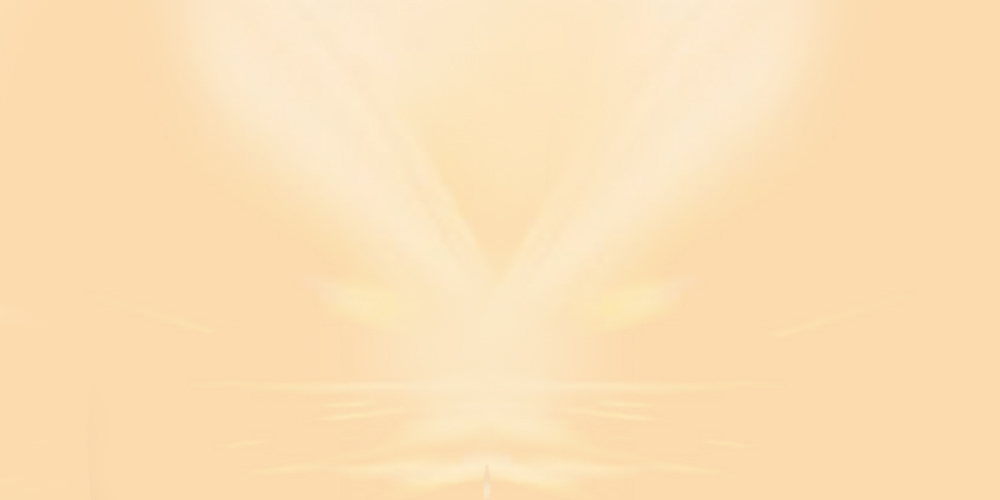
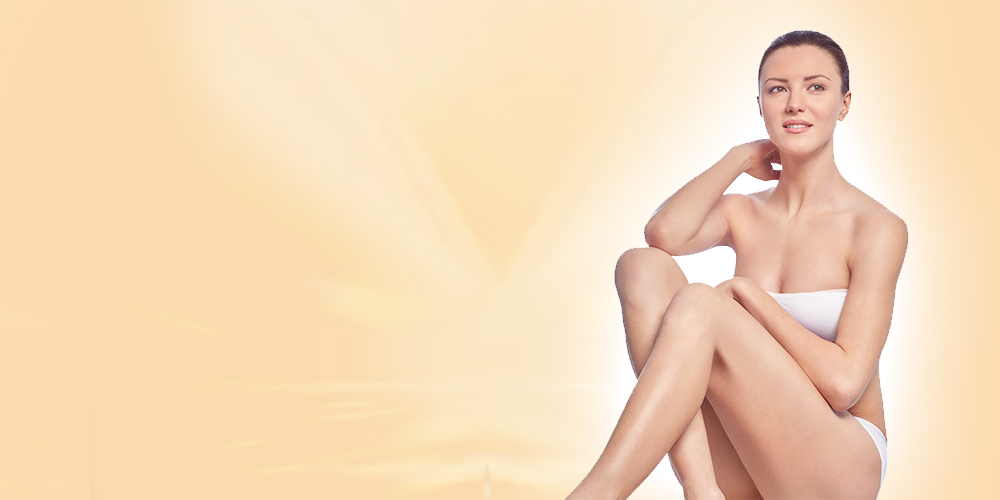
update all

Changed region(s): [[0.558, 0.03, 0.961, 1.0]]

diff --git a/product-1.html b/product-1.html
@@ -60,10 +60,9 @@
             <div class="carousel-item active">
                 <img alt="..." class="d-block w-100" src="assets/images/slider/banner.jpg">
                 <div class="carousel-caption d-md-block text-dark">
-                    <h1 class="regen-banner-title">天堡創建有限公司</h1>
+                    <h1 class="regen-banner-title">Toskani 品牌</h1>
                     <h5 class="regen-banner-caption">
-                        Castle Creation <br/>
-                        Limited
+                        Castle Creation Limited
                     </h5>
                 </div>
             </div>
@@ -75,10 +74,16 @@
 <!--Diamond Start-->
 <section class="regen-service">
     <div class="container mt-5 pb-3">
-        <p class="regen-content-paragraph text-center">
-            MEDILASE經過全方位臨床研究，以徹底解決肌膚問題，回復年輕原美肌為目標，<br/>
-            精心研發出AGE CORRECTOR逆齡精華，蘊含三大抗衰老功效，<br/>
-            承接美容療程，倍效逆齡再生。
+        <h1 class="regen-content-title">Toskani 品牌</h1>
+        <p class="regen-content-paragraph">
+            Toskani擁有超過30年歷史的西班牙美容品牌，曾榮獲歐洲醫學美容產品權威 Mediterraneo Excelente Award- Best Medicial Cosmetics 大獎，致力於研發高品質的醫學美容產品，讓您的肌膚煥然一新！產品線包括各種皮膚護理產品、注射劑、營養補充劑和美容設備，其中最受歡迎的皮膚護理產品。
+            <br/><br/>
+            皇牌產品例如:全新DUOSOMAL TECH®爆珠煥膚無創療程，,MesojectGun 女神槍, Night Reverse 一夜逆齡活膚系列和水光肌必備的NCPR49+1全效嫩膚肌底精華<br/>
+            。這些產品經過嚴格的測試和認證，並採用最先進的技術和成分，以確保它們具有卓越的效果和高質量。產品在全球各地廣受歡迎，並獲得了許多美容專家和消費者的讚譽。非常自豪能夠為大小的美容院提供優質的產品和服務，讓您在美容護理方面得到最好的體驗。
+            <br/><br/>
+            研究團隊累積了超過30項研究成果，將細胞和MESOTHERAPY技術應用於我們的產品之上。這些技術可以幫助您減少皺紋、美白肌膚、去除痘痘，讓您的肌膚看起來更加年輕、健康、有光澤。
+            <br/><br/>
+            所以，如果您正在尋找高品質的美容產品，那麼Toskani就是您的不二之選！我們的產品將讓您的肌膚焕然一新，讓您在人群中脫穎而出。
         </p>
     </div>
     <div class="text-center">
@@ -87,22 +92,19 @@
     <div class="container">
         <div class="row mt-5">
             <div class="col-lg-4 mb-3">
-                <img alt="" class="img-fluid" src="assets/images/product/001.png"/>
+                <img alt="" class="img-fluid" src="assets/images/product/toskani/1.jpeg"/>
             </div>
             <div class="col-lg-4 mb-3">
-                <img alt="" class="img-fluid" src="assets/images/product/002.png"/>
+                <img alt="" class="img-fluid" src="assets/images/product/toskani/2.jpeg"/>
             </div>
             <div class="col-lg-4 mb-3">
-                <img alt="" class="img-fluid" src="assets/images/product/003.png"/>
+                <img alt="" class="img-fluid" src="assets/images/product/toskani/3.jpeg"/>
             </div>
-            <div class="col-lg-4 mb-3">
-                <img alt="" class="img-fluid" src="assets/images/product/004.png"/>
+            <div class="col-lg-6 mb-3">
+                <img alt="" class="img-fluid" src="assets/images/product/toskani/4.jpeg"/>
             </div>
-            <div class="col-lg-4 mb-3">
-                <img alt="" class="img-fluid" src="assets/images/product/005.png"/>
-            </div>
-            <div class="col-lg-4 mb-3">
-                <img alt="" class="img-fluid" src="assets/images/product/006.png"/>
+            <div class="col-lg-6 mb-3">
+                <img alt="" class="img-fluid" src="assets/images/product/toskani/5.jpeg"/>
             </div>
         </div>
     </div>
@@ -114,24 +116,52 @@
     <div class="container mt-5 pb-lg-5 pb-5 text-center">
         <hr/>
         <h1 class="regen-content-title mt-5" >
-            兩種濃縮透明質酸　雙重加強保濕支援
+            prx-t33 品牌
         </h1>
+        <p class="regen-content-paragraph text-start">
+            由 WIQO Med 創造的 PRX-T33 是最新的革命性手塑埋線療程。
+            PRX-T33療法已在意大利衛生部註冊為醫療器材用品第一級TCA / H2O2國際專利配方,
+            並獲歐盟國際專利，暢銷澳洲，日本和美國。
+            <br/><br/>
+            獨創手塑埋線PRX-T33是一種安全、非侵入性的技術，利用33%濃度的TCA和低濃度的過氧化氫（H2O2）的組合，滲透到真皮乳頭，
+            啟動皮膚細胞的再生和修復，同時刺激膠原蛋白和彈性蛋白的產生，提高皮膚的彈性和柔軟度讓皮膚更加年輕化，使外觀更年輕。
+            同時阻止結霜或脫皮的機會。低濃度的H2O2有助於加速癒合，此外，這種革命性的方法能夠減少皺紋、細紋、色素沉著，
+            以及改善皮膚的亮度和明亮度。PRX-T33可以快速、方便、高效，是解決各種皮膚問題的有效方法。
+        </p>
         <div class="row mt-5">
-            <div class="col-lg-4 mx-auto">
-                <img alt="" class="img-fluid" src="assets/images/support/support01.png"/>
-                <h3 class="mt-5">
-                    高分子透明質酸
+            <div class="col-lg-5 mx-auto">
+                <h3 class="regen-content-title text-start">
+                    效果
                 </h3>
-                <h5>為肌膚提供水分，</h5>
-                <h5>幫助肌膚自我更新。</h5>
+                <p class="regen-content-paragraph text-start">
+                    1.改善色素、萎縮性疤痕、凹陷疤痕、痘痕、妊娠紋、痤瘡、鬆弛和光老化<br/>
+                    2.拉提鬆垂肌膚，重塑輪廓<br/>
+                    3.使皮膚美白，改善暗唖<br/>
+                    4.加強美容注射療程效果<br/>
+                    5.修復疤痕，調節膚色，使肌膚回復細嫩平滑
+                </p>
+                <h3 class="regen-content-title text-start mt-5">
+                    優點
+                </h3>
+                <p class="regen-content-paragraph text-start">
+                    1.適合任何年齡及各種膚質<br/>
+                    2.無痛(健康皮膚)<br/>
+                    3.無需復原時間(視乎皮膚狀況)<br/>
+                    4.無創傷(視乎皮膚狀況)<br/>
+                    5.深入基底層激活皮膚再生<br/>
+                    6.不脫皮(過厚老化角質除外)<br/>
+                    7.無光敏性，<br/>
+                    治療後可如常安全進行日光及戶外活動，<br/>
+                    不會直接引起色素問<br/>
+                    8.非入侵性<br/>
+                    9.四季可使用<br/>
+                    10.效果明顯和持續
+                </p>
             </div>
-            <div class="col-lg-4 mx-auto">
-                <img alt="" class="img-fluid" src="assets/images/support/support02.png"/>
-                <h3 class="mt-5">
-                    高分子透明質酸
-                </h3>
-                <h5>為肌膚提供水分，</h5>
-                <h5>幫助肌膚自我更新。</h5>
+            <div class="col-lg-7 mx-auto">
+                <div class="regen-service-image text-center">
+                    <img alt="" class="img-fluid" src="assets/images/service/service_girl.png"/>
+                </div>
             </div>
         </div>
     </div>
@@ -141,13 +171,13 @@
 <!--Treatment Start-->
 <section class="regen-contact pb-5 pt-5 text-center">
     <div class="container">
-        <h1 class="regen-content-title" style="font-weight: 900">AGE CORRECTOR</h1>
-        <h5>INTENSIVE REPAIR ESSENCE</h5>
-        <h5 class="mt-5">含有最有效的抗衰老及維持年輕肌膚的活性成分</h5>
-        <h5>具強效修復膠原蛋白功效</h5>
-        <h5>臨床證實</h5>
-        <h6 class="mb-5">使用2個月可明顯撫平魚尼尾及抬頭紋</h6>
-        <img alt="" class="img-fluid" src="assets/images/product/product_img.png"/>
+        <h1 class="regen-content-title" style="font-weight: 900">4樣皇牌產品放toskani</h1>
+        <p class="regen-content-paragraph mt-5 mb-5">
+            Night Reverse 一夜逆齡活膚列<br/>
+            DUOSOMAL TECH®4色爆珠煥膚無創療程<br/>
+            MesojectGun 女神槍<br/>
+            NCPR49+1全效嫩膚肌底精華
+        </p>
     </div>
 </section>
 <!--Treatment End-->

diff --git a/index.html b/index.html
@@ -222,9 +222,9 @@
                             醫美品牌Toskani
                         </h1>
                         <h1 class="regen-treatment-card-title-4">
-                            由1982年起於<br/>
-                            西班牙成立超過40年<br/>
-                            主力研發醫學美容
+                            love your beauty<br/>
+                            feel great<br/>
+                            every day
                         </h1>
                         <button class="btn btn-primary regen-treatment-btn mt-lg-3 mt-3 mb-lg-0 mb-2" type="button">
                             了解更多
